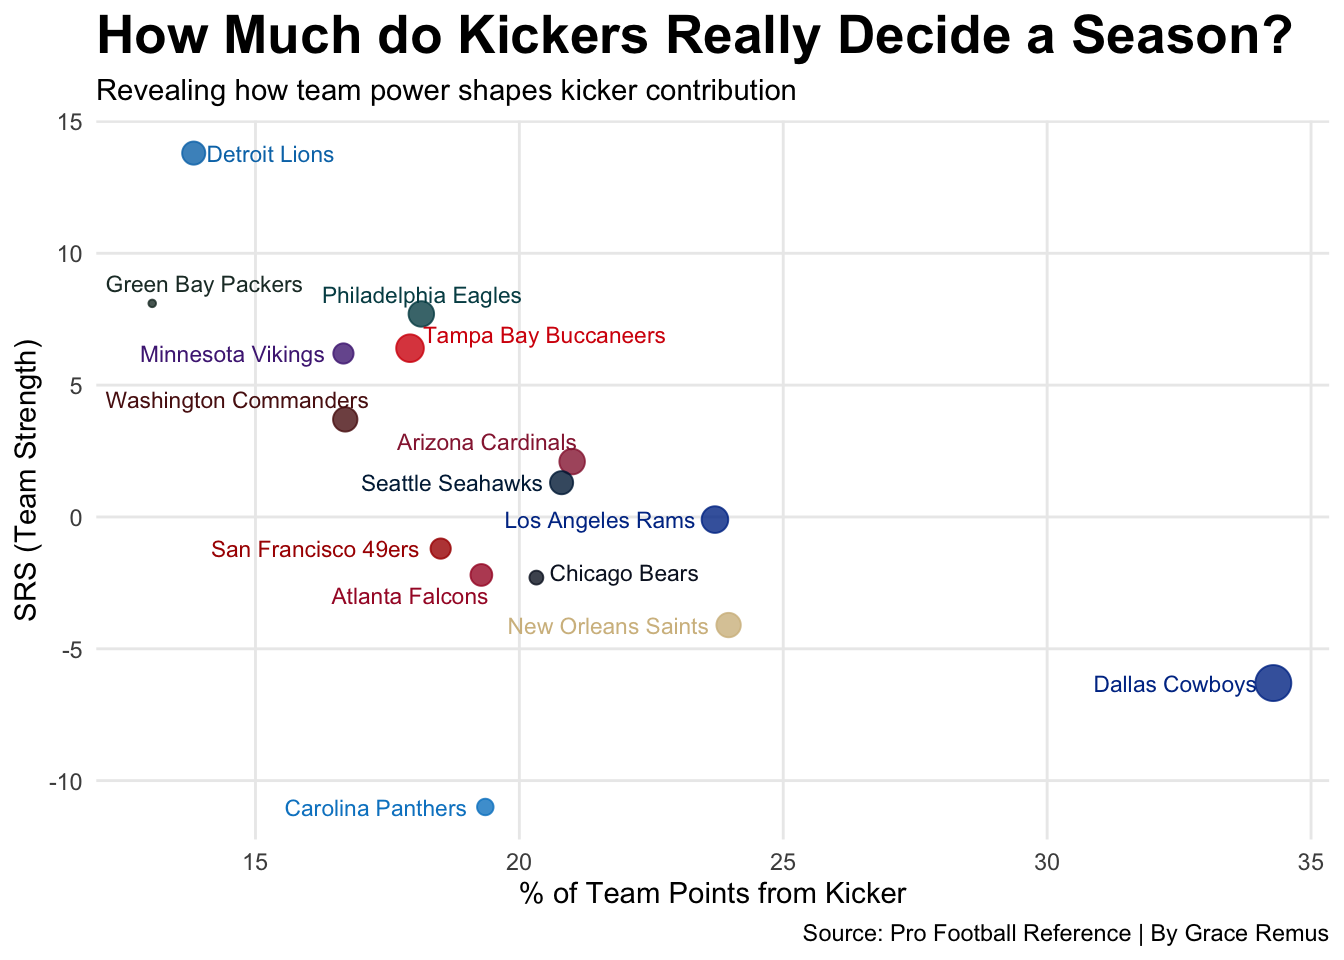
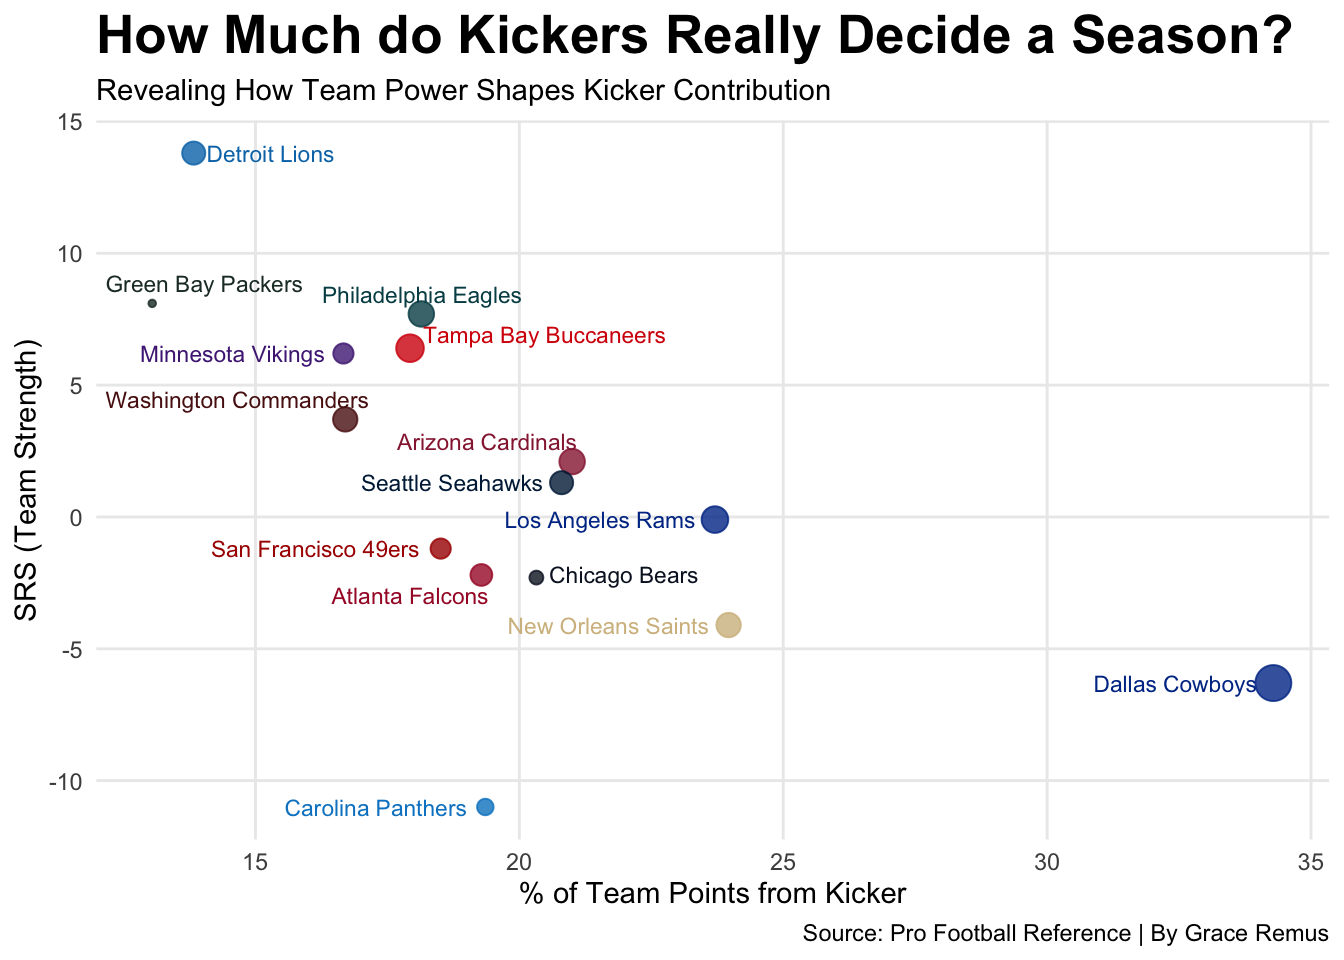
dhmu

Changed region(s): [[0.1875, 0.0625, 0.625, 0.125], [0.4062, 0.5938, 0.5312, 0.625]]

diff --git a/posts/kicker-value-to-getting-wins/index.html b/posts/kicker-value-to-getting-wins/index.html
@@ -257,7 +257,7 @@ pre > code.sourceCode > span > a:first-child::before { text-decoration: underlin
 <span id="cb1-54"><a href="#cb1-54" aria-hidden="true" tabindex="-1"></a>    <span class="at">subtitle =</span> <span class="st">"Does Having an Accurate Kicker Guarantee More Wins?"</span>, <span class="at">caption=</span><span class="st">"Source: Pro Football Reference | By Grace Remus"</span></span>
 <span id="cb1-55"><a href="#cb1-55" aria-hidden="true" tabindex="-1"></a>  ) <span class="sc">+</span></span>
 <span id="cb1-56"><a href="#cb1-56" aria-hidden="true" tabindex="-1"></a>  <span class="fu">theme_minimal</span>() <span class="sc">+</span> <span class="fu">theme</span>(</span>
-<span id="cb1-57"><a href="#cb1-57" aria-hidden="true" tabindex="-1"></a>    <span class="at">plot.title =</span> <span class="fu">element_text</span>(<span class="at">size =</span> <span class="dv">20</span>, <span class="at">face =</span> <span class="st">"bold"</span>), <span class="at">panel.grid.minor =</span> <span class="fu">element_blank</span>()</span>
+<span id="cb1-57"><a href="#cb1-57" aria-hidden="true" tabindex="-1"></a>    <span class="at">plot.title =</span> <span class="fu">element_text</span>(<span class="at">size =</span> <span class="dv">15</span>, <span class="at">face =</span> <span class="st">"bold"</span>), <span class="at">panel.grid.minor =</span> <span class="fu">element_blank</span>()</span>
 <span id="cb1-58"><a href="#cb1-58" aria-hidden="true" tabindex="-1"></a>    ) </span></code></pre></div><button title="Copy to Clipboard" class="code-copy-button"><i class="bi"></i></button></div>
 </details>
 <div class="cell-output-display">
@@ -340,7 +340,7 @@ pre > code.sourceCode > span > a:first-child::before { text-decoration: underlin
 <span id="cb3-25"><a href="#cb3-25" aria-hidden="true" tabindex="-1"></a>  <span class="fu">geom_text_repel</span>(<span class="fu">aes</span>(<span class="at">label =</span> Team), <span class="at">hjust =</span> <span class="fl">1.1</span>, <span class="at">vjust =</span> <span class="fl">0.5</span>, <span class="at">size =</span> <span class="dv">3</span>) <span class="sc">+</span></span>
 <span id="cb3-26"><a href="#cb3-26" aria-hidden="true" tabindex="-1"></a>  <span class="fu">scale_color_manual</span>(<span class="at">values =</span> team_colors, <span class="at">labels =</span> nfc_kicking_2024<span class="sc">$</span>Team) <span class="sc">+</span></span>
 <span id="cb3-27"><a href="#cb3-27" aria-hidden="true" tabindex="-1"></a>  <span class="fu">labs</span>(</span>
-<span id="cb3-28"><a href="#cb3-28" aria-hidden="true" tabindex="-1"></a>    <span class="at">title =</span> <span class="st">"How Much do Kickers Really Decide a Season?"</span>, <span class="at">subtitle =</span> <span class="st">"Revealing how team power shapes kicker contribution"</span>, <span class="at">caption=</span><span class="st">"Source: Pro Football Reference | By Grace Remus"</span>,</span>
+<span id="cb3-28"><a href="#cb3-28" aria-hidden="true" tabindex="-1"></a>    <span class="at">title =</span> <span class="st">"How Much do Kickers Really Decide a Season?"</span>, <span class="at">subtitle =</span> <span class="st">"Revealing How Team Power Shapes Kicker Contribution"</span>, <span class="at">caption=</span><span class="st">"Source: Pro Football Reference | By Grace Remus"</span>,</span>
 <span id="cb3-29"><a href="#cb3-29" aria-hidden="true" tabindex="-1"></a>    <span class="at">x =</span> <span class="st">"% of Team Points from Kicker"</span>,</span>
 <span id="cb3-30"><a href="#cb3-30" aria-hidden="true" tabindex="-1"></a>    <span class="at">y =</span> <span class="st">"SRS (Team Strength)"</span>,</span>
 <span id="cb3-31"><a href="#cb3-31" aria-hidden="true" tabindex="-1"></a>    <span class="at">size =</span> <span class="st">"Kicker Points"</span>,</span>

diff --git a/index.html b/index.html
@@ -209,7 +209,7 @@ window.Quarto = {
 
 <div class="quarto-listing quarto-listing-container-default" id="listing-listing">
 <div class="list quarto-listing-default">
-<div class="quarto-post image-right" data-index="0" data-categories="Zm9vdGJhbGwlMkNuZmwlMkNraWNrZXI=" data-listing-date-sort="1763359200000" data-listing-file-modified-sort="1763430176651" data-listing-date-modified-sort="NaN" data-listing-reading-time-sort="8" data-listing-word-count-sort="1465">
+<div class="quarto-post image-right" data-index="0" data-categories="Zm9vdGJhbGwlMkNuZmwlMkNraWNrZXI=" data-listing-date-sort="1763359200000" data-listing-file-modified-sort="1763430313185" data-listing-date-modified-sort="NaN" data-listing-reading-time-sort="8" data-listing-word-count-sort="1465">
 <div class="thumbnail"><a href="./posts/kicker-value-to-getting-wins/index.html" class="no-external">
 
 <img loading="lazy" src="./posts/kicker-value-to-getting-wins/image.png" class="thumbnail-image">
